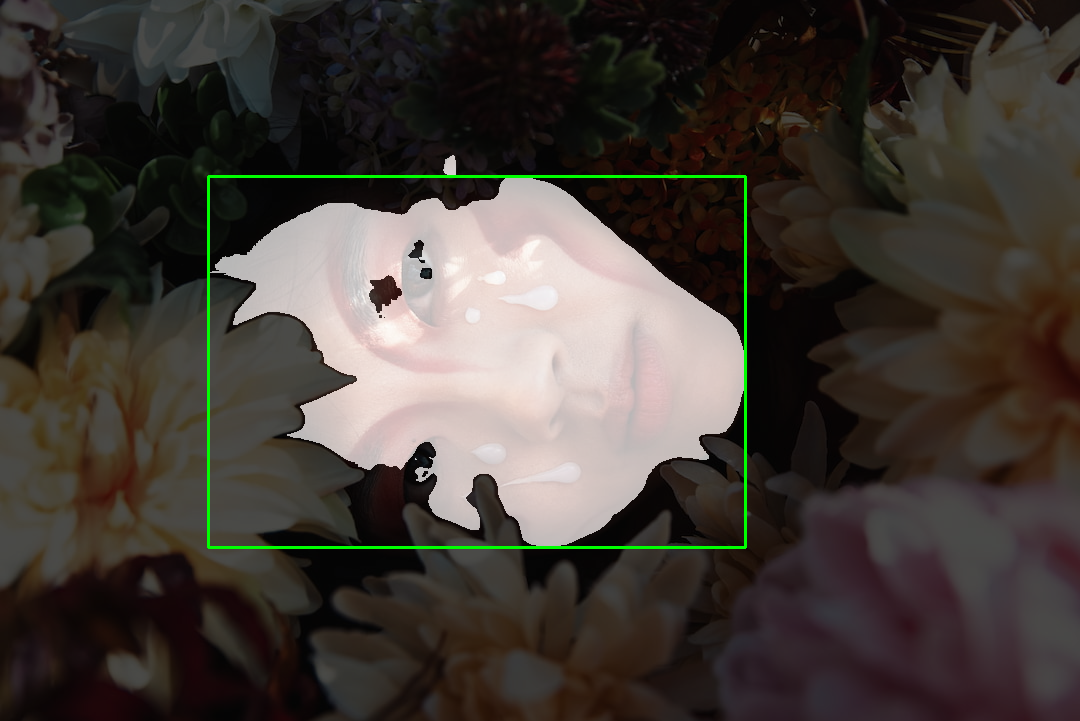
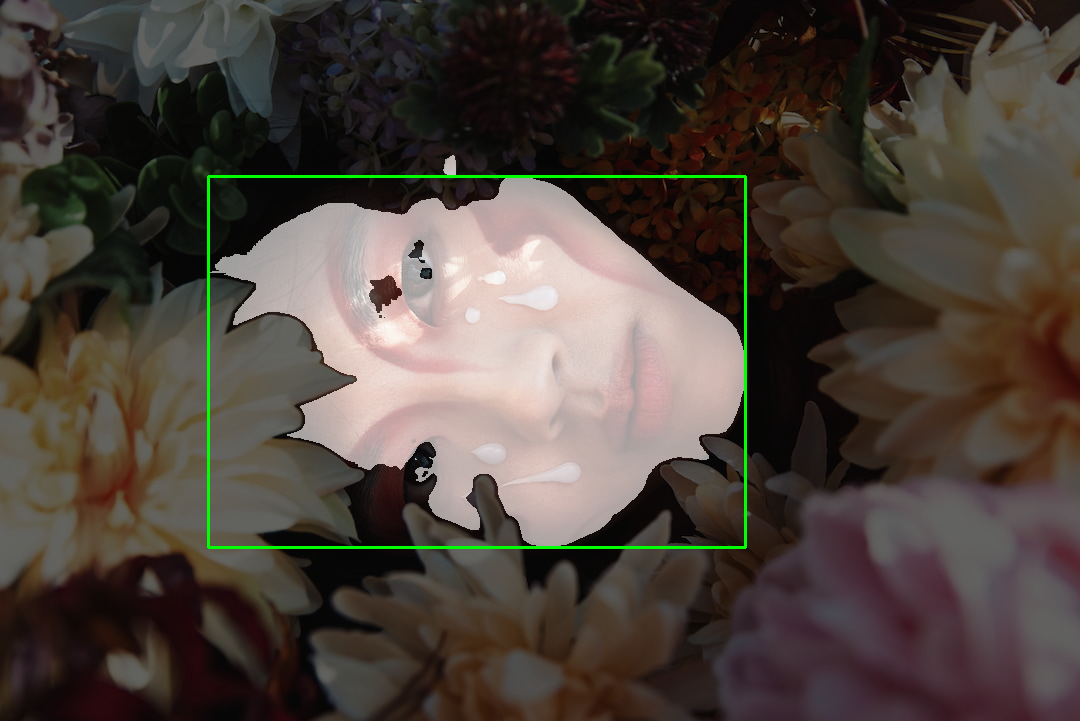
feat: implemented get_b_box and get_b_box_debug endpoints
/spend 3h

diff --git a/services/motif_service/src/application/services/b_box_service.py b/services/motif_service/src/application/services/b_box_service.py
@@ -1,54 +1,114 @@
+from email.mime import base
+
 import cv2
 import numpy as np
 from grpc import RpcContext
-from rembg import new_session, remove
+from src.application.services.image_service import ImageService
 from src.domain.value_objects.b_box import BBox
-from src.infrastructure.__generated__.python.b_box_pb2 import GetBBoxRequest
+from src.domain.value_objects.image import Image
+from src.infrastructure.__generated__.python.b_box_pb2 import (
+    Base64ImageDto, GetBBoxDebugRequest, GetBBoxDebugResponse, GetBBoxRequest,
+    GetBBoxResponse, ImageDto)
 from src.infrastructure.__generated__.python.b_box_pb2_grpc import \
     BBoxServiceServicer
 
 
 class BBoxService(BBoxServiceServicer):
-    """
-    Service to handle operations related to bounding boxes
-    """
-    
-    def __init__(self):
-        model_name = "u2net"
-        self.__session = new_session(model_name)
-    
-    def get_b_box(self, request:GetBBoxRequest, context: RpcContext):
-        print(request)
-        req_img = request.image
-        if req_img.HasField("path"):
-            original_img = cv2.imread(req_img.path)
-            no_bg_img = remove(original_img, session=self.__session, only_mask=True)
-            
-            # Threshold the image to get a binary image
-            _, binary = cv2.threshold(no_bg_img, 240, 255, cv2.THRESH_BINARY)
+	"""
+	Service to handle operations related to bounding boxes
+	"""
 
-            # Find contours in the binary image
-            contours, _ = cv2.findContours(binary, cv2.RETR_EXTERNAL,cv2.CHAIN_APPROX_NONE)
+	def __init__(self, img_service: ImageService, threshold: int = 240):
+		self.__img_service = img_service
+        # 240 has been tested on the test images and has provided good results
+		self.__threshold = threshold
 
-            # Find the contour with the largest area
-            largest_contour = max(contours, key=cv2.contourArea)
 
-            # Get the bounding box coordinates for the largest contour
-            x, y, w, h = cv2.boundingRect(largest_contour)
+	def __threshold_ndarray(self, img_arr: np.array) -> np.array:
+		"""
+		Threshold a ndarray
+		
+		Args:
+		    img_arr: Image array
+		    
+		Returns:
+		    binary_arr: Thresholded image array
+		"""
+		_, binary_arr = cv2.threshold(img_arr, self.__threshold
+			, 255, cv2.THRESH_BINARY)
 
-            # Convert the binary image to BGR format for overlay
-            mask_img = cv2.cvtColor(binary, cv2.COLOR_GRAY2BGR)
+		return binary_arr
 
-            # Overlay the original image onto the binary image with opacity
-            opacity = 0.4
-            overlay_image = cv2.addWeighted(original_img, opacity, mask_img, 1 - opacity, 0)
+	def __find_b_box(self, img_arr: np.array) -> BBox:
+		"""
+		Find the largest contour in a image mask contained in a ndarray
+		
+		Args:
+		    img: Image object
+		    
+		Returns:
+		    largest_contour: Largest contour in the image
+		""" 
+		binary_arr = self.__threshold_ndarray(img_arr)
 
-            # Draw the bounding box on the overlay image
-            cv2.rectangle(overlay_image, (x, y), (x + w, y + h), (0, 255, 0), 2)
+		contours, _ = cv2.findContours(binary_arr, cv2.RETR_EXTERNAL,cv2.CHAIN_APPROX_NONE)
 
-            # Save or display the result
-            output_path = "debug.png"
-            cv2.imwrite(output_path, overlay_image)
-        else:
-            # request must contain base64 encoded image
-            pass
+		largest_contour = max(contours, key=cv2.contourArea)
+
+		x, y, w, h = cv2.boundingRect(largest_contour)
+
+		b_box = BBox(x, y, w, h)
+
+		return b_box
+
+	def get_b_box(self, request:GetBBoxRequest, context: RpcContext) -> GetBBoxResponse:
+		try:
+			img: Image = Image.from_dto(request.image)
+		except Exception as e:
+			context.set_code(3)
+			context.set_details(str(e))
+			return
+
+		no_bg_img_arr = self.__img_service.remove_bg(img)
+
+		b_box = self.__find_b_box(no_bg_img_arr)
+
+		b_box_dto = b_box.to_dto()
+
+		res = GetBBoxResponse(b_box=b_box_dto)
+
+		return res
+
+	def get_b_box_debug(self, request:GetBBoxDebugRequest, context: RpcContext) -> GetBBoxDebugResponse:
+		try:
+			img: Image = Image.from_dto(request.image)
+		except Exception as e:
+			context.set_code(3)
+			context.set_details(str(e))
+			return
+
+		no_bg_img_arr = self.__img_service.remove_bg(img)
+
+		b_box = self.__find_b_box(no_bg_img_arr)
+
+		binary_arr = self.__threshold_ndarray(no_bg_img_arr)
+
+			# Convert the binary image to BGR format for overlay
+		mask_img = cv2.cvtColor(binary_arr, cv2.COLOR_GRAY2BGR)
+
+		# Overlay the original image onto the binary image with opacity
+		original_img = img.get_arr()
+
+		opacity = 0.4
+		overlay_image = cv2.addWeighted(original_img, opacity, mask_img, 1 - opacity, 0)
+
+		# Draw the bounding box on the overlay image
+		cv2.rectangle(overlay_image, (b_box.x, b_box.y), (b_box.x + b_box.width, b_box.y + b_box.height), (0, 255, 0), 2)
+
+		composed_img = Image(overlay_image)
+
+		base64_str = composed_img.to_base64_string()
+		base64_img_dto = Base64ImageDto(data=base64_str)
+
+		res = GetBBoxDebugResponse(image=base64_img_dto)
+		return res

diff --git a/services/motif_service/src/domain/value_objects/image.py b/services/motif_service/src/domain/value_objects/image.py
@@ -1,0 +1,75 @@
+import base64
+
+import cv2
+import numpy as np
+from src.infrastructure.__generated__.python.b_box_pb2 import ImageDto
+
+
+class Image:
+    """
+    Image value object
+    """
+     
+    def __init__(self, cv2_image):
+        self.__cv2_image = cv2_image
+        
+    def get_arr(self) -> np.ndarray:
+        """
+        Get the ndarray of this image
+        """
+        return self.__cv2_image
+    
+    def to_base64_string(self) -> str:
+        """
+        Convert the image to base64 string
+
+        Returns:
+            base64_string: Base64 string of the image
+        """
+        # Encode the image to bytes
+        _, img_data = cv2.imencode(".jpg", self.__cv2_image)
+        
+        # Convert bytes data to base64 string
+        base64_string = base64.b64encode(img_data).decode()
+        
+        return base64_string
+    
+    @staticmethod
+    def from_dto(dto: ImageDto) -> 'Image':
+        """
+        Create an Image object from ImageDto object
+
+        Args:
+            dto (ImageDto): ImageDto object
+
+        Raises:
+            ValueError: If ImageDto object does not have path or base64_image
+
+        Returns:
+            Image: Image object
+        """
+        if dto.HasField('path'):
+            return Image.from_local_path(dto.path)
+        elif dto.HasField('base64_image'):
+            return Image.from_base64_string(dto.base64_image.data)
+        else:
+            raise ValueError("ImageDto must have either path or base64_image")
+    
+    @staticmethod
+    def from_local_path( path: str) -> 'Image':
+        img = cv2.imread(path)
+        return Image(img)
+    
+    @staticmethod
+    def from_base64_string(base64_string: str) -> 'Image':
+         # Decode base64 string to bytes
+        img_data = base64.b64decode(base64_string)
+        
+        # Convert bytes data to numpy array
+        np_array = np.frombuffer(img_data, dtype=np.uint8)
+        
+        # Decode numpy array to an image
+        img = cv2.imdecode(np_array, cv2.IMREAD_COLOR)
+        
+        return Image(img)
+    

diff --git a/services/motif_service/src/presentation/grpc/__main__.py b/services/motif_service/src/presentation/grpc/__main__.py
@@ -5,11 +5,12 @@ from concurrent import futures
 import grpc
 import src.infrastructure.__generated__.python.b_box_pb2_grpc as b_box_pb2_grpc
 from src.application.services.b_box_service import BBoxService
+from src.application.services.image_service import ImageService
 
 
 def serve():
     server = grpc.server(futures.ThreadPoolExecutor(max_workers=10))
-    b_box_pb2_grpc.add_BBoxServiceServicer_to_server(BBoxService(), server)
+    b_box_pb2_grpc.add_BBoxServiceServicer_to_server(BBoxService(img_service=ImageService()), server)
     server.add_insecure_port("[::]:9090")
     server.start()
     server.wait_for_termination()

diff --git a/services/motif_service/src/application/services/image_service.py b/services/motif_service/src/application/services/image_service.py
@@ -1,0 +1,22 @@
+import cv2
+import numpy as np
+from rembg import new_session, remove
+from src.domain.value_objects.image import Image
+
+
+class ImageService:
+    """
+    Service to handle operations related to images
+    """
+    
+    def __init__(self, model_name: str = "u2net"):
+        self.__session = new_session(model_name)
+        
+    def remove_bg(self, image: Image) -> np.ndarray:
+        """
+        Remove background from the image
+        """
+        img_arr = image.get_arr()
+        no_bg_img_arr = remove(img_arr, session=self.__session, only_mask=True)
+        
+        return no_bg_img_arr

diff --git a/services/motif_service/src/domain/value_objects/b_box.py b/services/motif_service/src/domain/value_objects/b_box.py
@@ -1,3 +1,6 @@
+from src.infrastructure.__generated__.python.b_box_pb2 import BBoxDto
+
+
 class BBox:
     """
     Bounding box value object
@@ -26,3 +29,12 @@ class BBox:
             "width": self.width,
             "height": self.height
         }
+        
+    def to_dto(self) -> BBoxDto:
+        """
+        Convert the BBox object to BBoxDto object
+
+        Returns:
+            BBoxDto: BBoxDto object
+        """
+        return BBoxDto(self.x, self.y, self.width, self.height)
